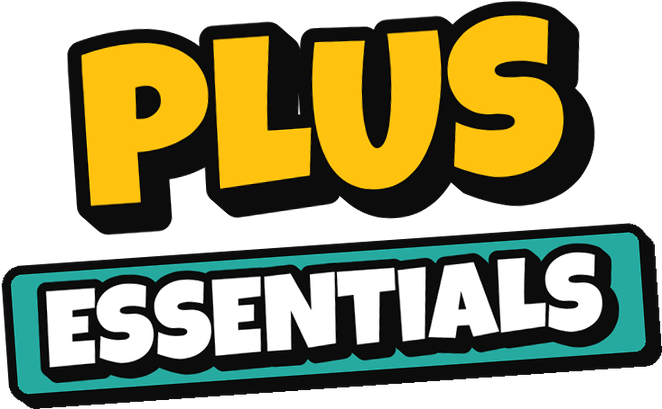
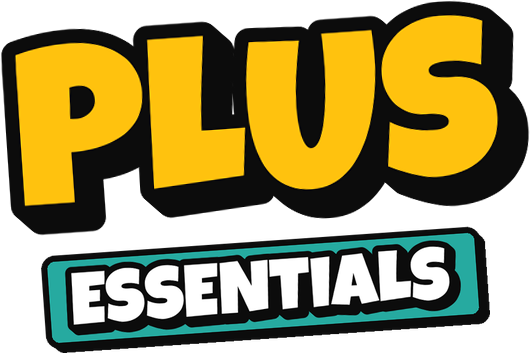
Smaller ESSENTIALS ribbon, centred under PLUS

diff --git a/tools/make_logo.py b/tools/make_logo.py
@@ -78,7 +78,7 @@ def essentials(width):
 def main():
     plus = word("PLUS", 220, YELLOW, BLACK, BLACK, tilt=4)
     save(plus, "plus.png")
-    save(under(plus, essentials(int(plus.width * 1.25)), 14), "plus_essentials.png")
+    save(under(plus, essentials(int(plus.width * 0.85)), 10), "plus_essentials.png")
 
     castle = word("CASTLE", 300, YELLOW, BLACK, BLACK, outline=18, extrude=22, tilt=3)
     story = word("STORY", 150, BLACK, WHITE, BLACK, outline=12, extrude=10, tilt=3)
@@ -94,7 +94,7 @@ def main():
     logo.alpha_composite(small_plus, (w - small_plus.width - 30, plus_y))
     logo = logo.crop(logo.getbbox())
     save(logo, "logo.png")
-    save(under(logo, essentials(int(logo.width * 0.62)), 20, shift=int(logo.width * 0.17)), "logo_essentials.png")
+    save(under(logo, essentials(int(logo.width * 0.4)), 14, shift=int(logo.width * 0.28)), "logo_essentials.png")
 
 
 if __name__ == "__main__":
